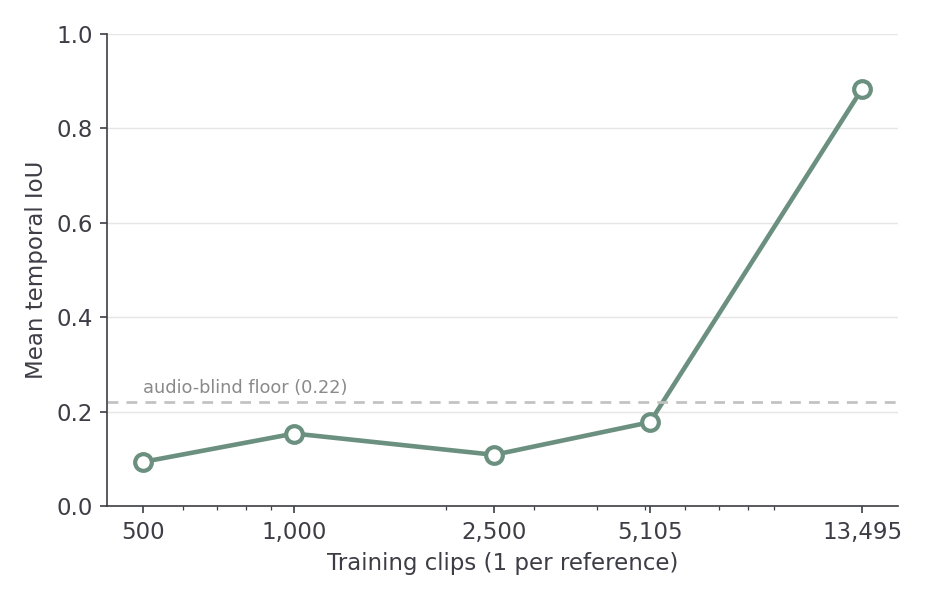
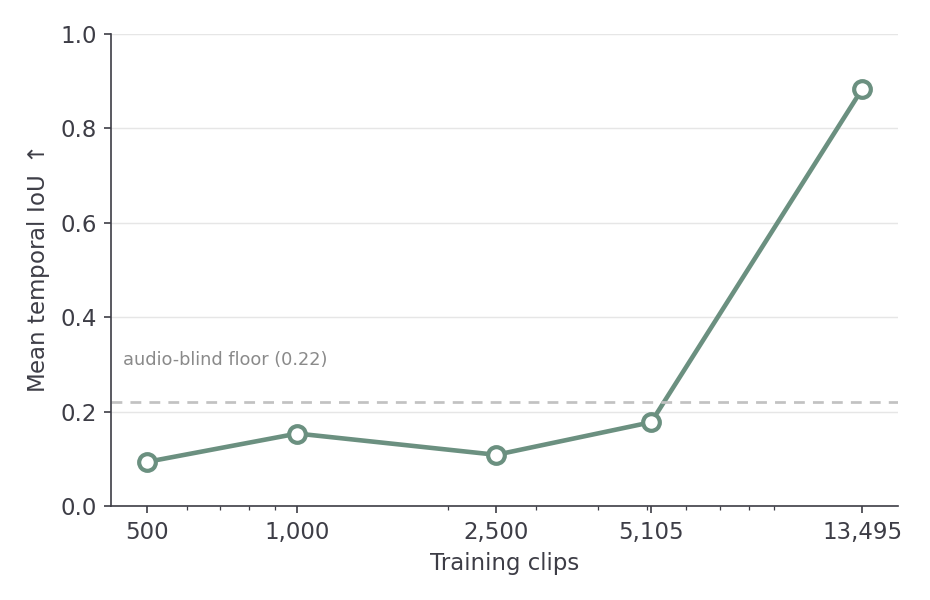
style: Fig 4.4 axis arrows + moved floor label + drop (1 per reference)

diff --git a/scripts/analysis/plot_datasize_sweep.py b/scripts/analysis/plot_datasize_sweep.py
@@ -5,16 +5,11 @@ import matplotlib
 matplotlib.use("Agg")
 import matplotlib.pyplot as plt
 
-SAGE = "#6b9080"   # mIoU
-CLAY = "#d4a373"   # MOS MSE
-INK  = "#3d3d46"
-GRID = "#c2c2c2"
+SAGE = "#6b9080"; CLAY = "#d4a373"; INK = "#3d3d46"; GRID = "#c2c2c2"
 LINE5 = ["#6b9080", "#a4ac86", "#d4a373", "#8d9db6", "#b5838d"]
-plt.rcParams.update({
-    "font.size": 11, "axes.edgecolor": INK, "axes.labelcolor": INK,
-    "xtick.color": INK, "ytick.color": INK, "text.color": INK,
-    "axes.titlesize": 12.5, "figure.dpi": 150, "font.family": "DejaVu Sans",
-})
+plt.rcParams.update({"font.size":11,"axes.edgecolor":INK,"axes.labelcolor":INK,
+    "xtick.color":INK,"ytick.color":INK,"text.color":INK,"axes.titlesize":12.5,
+    "figure.dpi":150,"font.family":"DejaVu Sans"})
 
 base = Path("/work3/s234817/automatic-speech-assessment/results/analysis/datasize_sweep")
 out = base/"figures"; out.mkdir(exist_ok=True)
@@ -26,9 +21,9 @@ labels=[f"{s:,}" for s in sizes]; AUDIO_BLIND=0.22
 fig,ax=plt.subplots(figsize=(6.2,4))
 ax.plot(sizes,iou,"o-",color=SAGE,lw=2.2,ms=8,mfc="white",mec=SAGE,mew=2)
 ax.axhline(AUDIO_BLIND,ls=(0,(4,3)),color=GRID,lw=1.3)
-ax.text(sizes[0],AUDIO_BLIND+0.02,"audio-blind floor (0.22)",color="#8a8a8a",fontsize=8.5)
+ax.text(0.015,0.30,"audio-blind floor (0.22)",transform=ax.transAxes,color="#8a8a8a",fontsize=8.5)
 ax.set_xscale("log"); ax.set_xticks(sizes); ax.set_xticklabels(labels)
-ax.set_xlabel("Training clips (1 per reference)"); ax.set_ylabel("Mean temporal IoU")
+ax.set_xlabel("Training clips"); ax.set_ylabel(r"Mean temporal IoU $\uparrow$")
 ax.set_ylim(0,1); ax.spines[["top","right"]].set_visible(False); ax.grid(axis="y",color=GRID,alpha=0.4,lw=0.7)
 fig.tight_layout(); fig.savefig(out/"datasize_iou_curve.png"); plt.close(fig)
 
@@ -37,29 +32,31 @@ losses=json.load(open(base/"loss_series.json"))
 fig,ax=plt.subplots(figsize=(6.2,4))
 for i,k in enumerate(sorted(losses,key=lambda k:int(k))):
     s=losses[k]
-    if not s: continue
-    ax.plot([p[0] for p in s],[p[1] for p in s],color=LINE5[i%len(LINE5)],lw=2,label=f"{int(k):,} clips")
+    if s: ax.plot([p[0] for p in s],[p[1] for p in s],color=LINE5[i%len(LINE5)],lw=2,label=f"{int(k):,} clips")
 ax.set_xlabel("Epoch"); ax.set_ylabel("Training loss")
 ax.legend(fontsize=8.5,frameon=False); ax.spines[["top","right"]].set_visible(False); ax.grid(axis="y",color=GRID,alpha=0.4,lw=0.7)
 fig.tight_layout(); fig.savefig(out/"datasize_loss_curves.png"); plt.close(fig)
 
-# Fig 4.4: grouped bars, mIoU + MOS MSE side by side per size, dual axis
-fig,ax1=plt.subplots(figsize=(7.6,4.6)); ax2=ax1.twinx()
-x=list(range(len(sizes))); w=0.38
-xl=[i-w/2 for i in x]; xr=[i+w/2 for i in x]
+# Fig 4.4: grouped bars, dual axis, arrows on axes, audio-blind label top-left
+fig,ax1=plt.subplots(figsize=(7.8,4.7)); ax2=ax1.twinx()
+x=list(range(len(sizes))); w=0.38; xl=[i-w/2 for i in x]; xr=[i+w/2 for i in x]
 b1=ax1.bar(xl,iou,w,color=SAGE,label="Mean IoU (localization)",zorder=3)
 b2=ax2.bar(xr,mse,w,color=CLAY,label="MOS MSE (rating)",zorder=3)
 ax1.axhline(AUDIO_BLIND,ls=(0,(4,3)),color="#9a9a9a",lw=1.2,zorder=2)
-ax1.text(-0.40,AUDIO_BLIND+0.018,"audio-blind IoU floor (0.22)",color="#8a8a8a",fontsize=8,ha="left")
+ax1.text(0.015,0.93,"dashed: audio-blind IoU floor (0.22)",transform=ax1.transAxes,color="#8a8a8a",fontsize=8.2)
 for xx,v in zip(xl,iou): ax1.text(xx,v+0.012,f"{v:.2f}",ha="center",va="bottom",fontsize=8.5,color="#4a6b5d")
 for xx,v in zip(xr,mse): ax2.text(xx,v+0.006,f"{v:.2f}",ha="center",va="bottom",fontsize=8.5,color="#a9774a")
-ax1.set_ylabel("Mean temporal IoU",color=SAGE); ax2.set_ylabel("MOS MSE",color=CLAY)
+ax1.set_ylabel(r"Mean temporal IoU  $\uparrow$",color=SAGE)
+ax2.set_ylabel(r"MOS MSE  $\downarrow$",color=CLAY)
 ax1.tick_params(axis="y",colors=SAGE); ax2.tick_params(axis="y",colors=CLAY)
 ax1.set_ylim(0,1.0); ax2.set_ylim(0,max(mse)*1.6)
-ax1.set_xticks(x); ax1.set_xticklabels(labels); ax1.set_xlabel("Training clips (1 per reference)")
+ax1.set_xticks(x); ax1.set_xticklabels(labels); ax1.set_xlabel("Training clips")
 ax1.set_title("Localization vs. rating across training-set size")
 ax1.spines["top"].set_visible(False); ax2.spines["top"].set_visible(False)
 ax1.grid(axis="y",color=GRID,alpha=0.35,lw=0.7,zorder=0)
-h=[b1,b2]; ax1.legend(h,[x.get_label() for x in h],frameon=False,fontsize=9,loc="upper center",bbox_to_anchor=(0.5,-0.13),ncol=2)
+# big directional arrows just outside each axis
+ax1.annotate("",xy=(-0.105,0.80),xytext=(-0.105,0.45),xycoords="axes fraction",arrowprops=dict(arrowstyle="-|>",color=SAGE,lw=2.4))
+ax2.annotate("",xy=(1.105,0.45),xytext=(1.105,0.80),xycoords="axes fraction",arrowprops=dict(arrowstyle="-|>",color=CLAY,lw=2.4))
+ax1.legend([b1,b2],[h.get_label() for h in [b1,b2]],frameon=False,fontsize=9,loc="upper center",bbox_to_anchor=(0.5,-0.13),ncol=2)
 fig.tight_layout(); fig.savefig(out/"datasize_iou_mse_bars.png",bbox_inches="tight"); plt.close(fig)
-print("done:",sorted(p.name for p in out.glob("*.png")))
+print("done")
